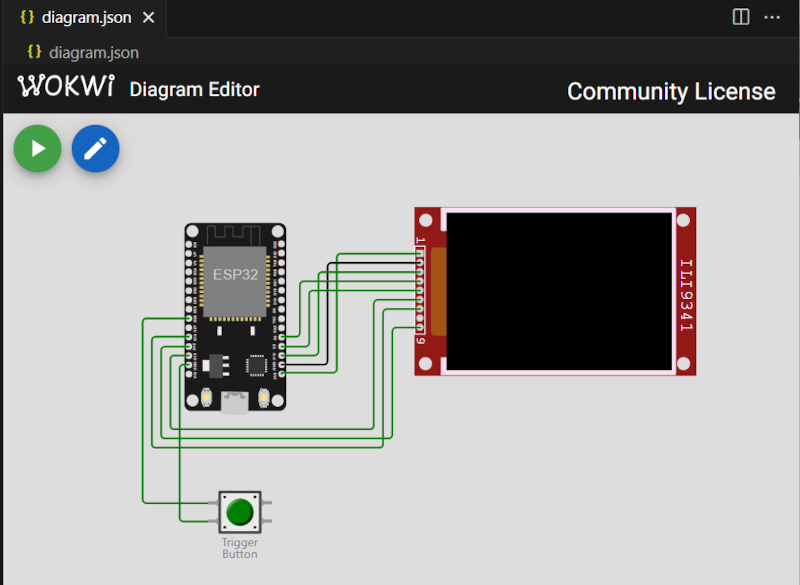
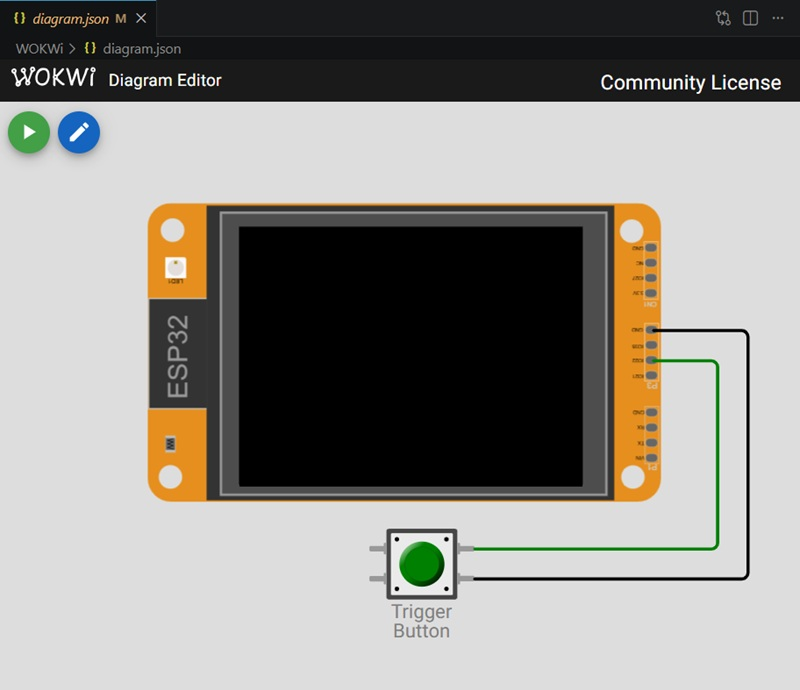
WOKWi related updates
- Fixes to allow WOKWi simulator to work with libraries and ESP32 core.
- switch to new board-esp32-2432s028r simulation of CYD board.
- update WOKWi documentation.

diff --git a/cydWeeWX/cydWeeWXDefines.h b/cydWeeWX/cydWeeWXDefines.h
@@ -155,9 +155,13 @@
 //#define CYD_WWX_RUN_ON_WOKWI                      // Uncomment to build for WOKWi simulation
 //#define CYD_WWX_WOKWI_ENTER_AP_AT_BOOT            // Uncomment to force AP entry at boot
 //#define CYD_WWX_WOKWI_SHOW_ERROR_STATE            // Uncomment to enter error state on Config Portal exit
-#define CYD_WWX_WOKWI_TRIGGER_PIN 26                // Trigger Pin as defined in the diagram.json
+#define CYD_WWX_WOKWI_TRIGGER_PIN 22                // Trigger Pin as defined in the diagram.json
 #define CYD_WWX_WOKWI_AP_SSID "Wokwi-GUEST"         // WOKWi WiFi open access point SSID
 #define CYD_WWX_WOKWI_AP_PASSWORD ""                // WOKWi WiFi open access point Password
+#ifdef CYD_WWX_RUN_ON_WOKWI
+#undef CYD_WWX_LDR_PIN
+#define TFT_BL
+#endif // CYD_WWX_RUN_ON_WOKWI
 
 // **************************************************************************************************
 // Logging Macros

diff --git a/WOKWi/README.md b/WOKWi/README.md
@@ -1,32 +1,48 @@
 # Set-up for WOKWi Simulator
 
-[WOKWi](https://wokwi.com) provides an emulation environment for IoT devices like the ESP32. The free version of WOKWi has a limit on the size of firmware that can be compiled and run directly on the site. The cydWeeWX firmware is bigger than that limit. However WOKWi can still be used to simulate cydWeeWX if the compile and build is done on your own computer using  [WOKWi Simulator for VS Code](https://marketplace.visualstudio.com/items?itemName=Wokwi.wokwi-vscode).
+[WOKWi](https://wokwi.com) provides an emulation environment for IoT devices like the ESP32. A WOKWi account is required to use the simulator. The free version of WOKWi has a limit on the size of firmware that can be compiled and run directly on the site. The cydWeeWX firmware is bigger than that limit,  however there are two options where WOKWi can still be used to simulate cydWeeWX:
+* Directly on the WOKWi site. Go to the [cydWeeWX (CYD)](https://wokwi.com/projects/461472545882831873) project on WOKWi and use the upload firmware feature. 
+Click into the **diagram.json** tab, press **F1** then select **"Upload Firmware and Start Simulation..."**. You will need to upload a merged binary file see [below](#building-cydweewx-for-wokwi).
+* Within VS Code using the [WOKWi extension](https://marketplace.visualstudio.com/items?itemName=Wokwi.wokwi-vscode). Details [below](#wokwi-simulator-for-vs-code-configuration).
 
-1. Install the VS Code extension, get a free WOKWi account then get an authorization key for the VS Code extension. The link above provides all the information to do this.
+## Building cydWeeWX for WOKWi
+
+Both WOKWi options require that you download the cydWeeWX project and build your own binary using either the Arduino IDE or VS Code with the [Arduino Community Edition](https://marketplace.visualstudio.com/items?itemName=vscode-arduino.vscode-arduino-community) extension. General build instructions are provided [here](../cydWeeWx/README.md). The following build modifications are also reqired to create a WOKWi compatible build.
+
+First, copy the ***User_Setup.h*** file from the cydWeeWX project ***WOKWi*** folder into the folder where your Arduino TFT_eSPI library is installed.
+
+Second, the cydWeeWX ***cydWeeWXDefines.h*** file  needs to be modified to enable a WOKWi simulator build.
+
+```
+#define CYD_WWX_RUN_ON_WOKWI  // Uncomment to  enable creation of a WOKWi simulator build
+//#define CYD_WWX_WOKWI_ENTER_AP_AT_BOOT            // Uncomment to force AP entry at boot
+//#define CYD_WWX_WOKWI_SHOW_ERROR_STATE            // Uncomment to enter error state on Config Portal exit
+```
+
+Addtionally uncommenting either `CYD_WWX_WOKWI_ENTER_AP_AT_BOOT` or `CYD_WWX_WOKWI_SHOW_ERROR_STATE` will cause cydWeeWX to boot into different states in WOKWi.
+
+Both WOKWi options require a merged binary that combines the bootloader, partition table, application code and data partitions. Once you have built your own cydWeeWX binary you will need to go to build folder and find the ***cydWeeWX.ino.merged.bin*** file. This should be a 4096KB file. 
+
+**IMPORTANT:** Firmware built for the WOKWi Simulator WILL NOT run properly on the physical cydWeeWX. You may also need to switch back the ***User_Setup.h*** file to properly support a physical cydWeeWX.
+
+## WOKWi Simulator for VS Code Configuration
+
+1. Install the [WOKWi Simulator for VS Code Configuration](https://marketplace.visualstudio.com/items?itemName=Wokwi.wokwi-vscode) extension, get a free WOKWi account then get an authorization key for the VS Code extension. The link above provides all the information to do this.
 2. Install the VS Code [Arduino Community Edition](https://marketplace.visualstudio.com/items?itemName=vscode-arduino.vscode-arduino-community) extension. Be sure to configure a build output folder in the ***.vscode/arduino.json*** configuration file by adding ```"output": "(your build folder path)"```
-3. Create the ***wokwi.toml*** file in your cydWeeWX sketch folder substituting the relative path from your sketch folder to your build folder for ```(relative path to build folder)```
+3. Edit the ***wokwi.toml*** file in the cydWeeWX project ***WOKWi*** folder substituting the relative path from your sketch folder to your build folder for ```(relative path to build folder)```.  
+**Note:** The merged binary is required as noted in the [build for WOKWi instructions](#building-cydweewx-for-wokwi).
 
 ```yaml
     [wokwi]
         version = 1
-        firmware = '(relative path to build folder)/cydWeeWX.ino.bin'
+        firmware = '(relative path to build folder)/cydWeeWX.ino.merged.bin'
         elf = '(relative path to build folder)/cydWeeWX.ino.elf'
 ```
-4. Copy the ***[diagram.json](./diagram.json)*** file into your sketch folder.
-5. Copy the ***[User_Setup.h](./User_Setup.h)*** file into the folder where your Arduino TFT_eSPI library is installed.
-6. Modify the cydWeeWX ***cydWeeWXDefines.h*** file to enable a WOKWi simulator build.
-
-    ```
-    #define CYD_WWX_RUN_ON_WOKWI  // Uncomment to  enable creation of a WOKWi simulator build
-    ```
-
-    **IMPORTANT:** Firmware built for the WOKWi Simulator WILL NOT run properly on the physical cydWeeWX. You may also need to switch back the ***User_Setup.h*** file to properly support a physical cydWeeWX.
-
-7. Build the cydWeeWX firmware in VS Code
-8. Open the ***diagram.json*** file in VS Code and you should see:
+4. Move the ***[diagram.json](./diagram.json)*** and modified ***wokwi.toml*** files into your sketch folder.
+5. Open the ***diagram.json*** file in VS Code and you should see:
 
 ![cydWeeWX Simulator](../images/diagramJson.jpg)
 
-9. Click the WOKWi run button.  
-   * Clicking and holding the simulation Trigger Button will enter and exit Configuration Portal mode. The portal on the simulated cydWeeWX cannot be access without a  paid WOKWi account. This is not needed to play with the simulation.
+6. Click the WOKWi run button.  
+   * Clicking and holding the simulation Trigger Button will enter and exit Configuration Portal mode. The portal on the simulated cydWeeWX cannot be accessed without a paid WOKWi account. This is not needed to play with the simulation.
    * WeeWX data is simulated but actual Open-Meteo queries are made to retrieve the WMO icon and weather description.
